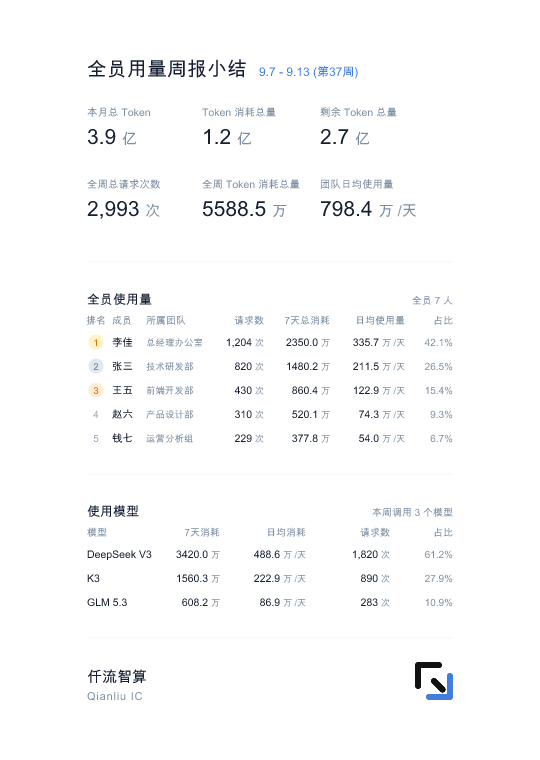
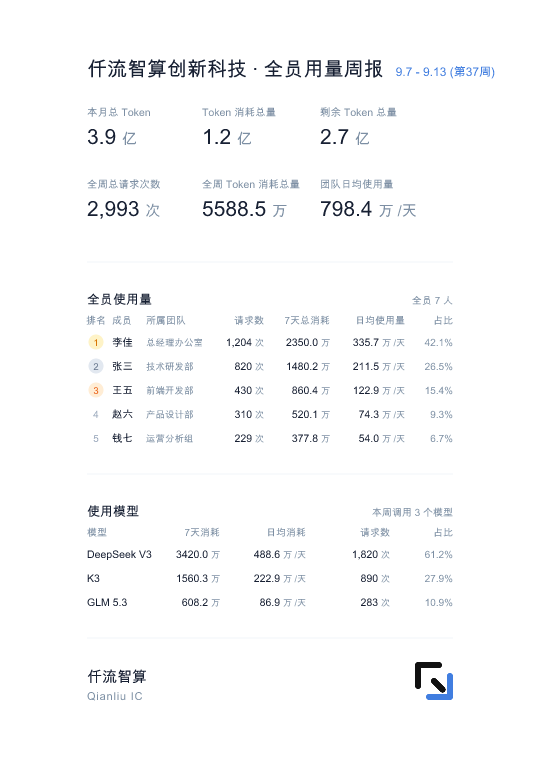
fix(reporting): prefix company weekly report title with enterprise short name
- Title changed from '全员用量周报小结' to '{enterpriseName} · 全员用量周报' to match daily report style
- Update spec doc title section and refresh v2.1 preview image

Changed region(s): [[0.1481, 0.0605, 0.4444, 0.1211], [0.4741, 0.0605, 0.7111, 0.1211], [0.8, 0.0908, 0.9185, 0.1211]]

diff --git a/apps/worker/src/reporting/templates/company-weekly-svg.ts b/apps/worker/src/reporting/templates/company-weekly-svg.ts
@@ -189,7 +189,7 @@ export function generateCompanyWeeklySvg(data: CompanyWeeklyReportData): string 
 
   <g font-family="-apple-system, BlinkMacSystemFont, 'PingFang SC', 'Hiragino Sans GB', 'Microsoft YaHei', 'WenQuanYi Zen Hei', 'Noto Sans CJK SC', sans-serif">
     <!-- Block 1: 顶栏小结 (标题 + 6大数字 2×3) -->
-    <text x="87" y="${headerY}" font-size="20" font-weight="700" fill="#172033">全员用量周报小结<tspan dx="12" font-size="12" font-weight="600" fill="#417EE0">${escapeXml(data.dateRange)}</tspan></text>
+    <text x="87" y="${headerY}" font-size="20" font-weight="700" fill="#172033">${escapeXml(data.enterpriseName)} · 全员用量周报<tspan dx="12" font-size="12" font-weight="600" fill="#417EE0">${escapeXml(data.dateRange)}</tspan></text>
 
     <!-- 第 1 行：月度额度视角（本月总 Token / Token 消耗总量 / 剩余 Token 总量） -->
     <g transform="translate(87, ${kpiTopY})">

diff --git a/apps/worker/src/reporting/__tests__/svg-templates.test.ts b/apps/worker/src/reporting/__tests__/svg-templates.test.ts
@@ -124,7 +124,7 @@ describe("SVG Templates & PNG Rendering Pipeline", () => {
 
     const svg = generateCompanyWeeklySvg(data);
 
-    expect(svg).toContain("全员用量周报小结");
+    expect(svg).toContain("仟流智算创新科技 · 全员用量周报");
     expect(svg).toContain("9.7 - 9.13");
     expect(svg).toContain("本月总 Token");
     expect(svg).toContain("Token 消耗总量");

diff --git a/文档/仟流智算-团队全员用量周报视觉与格式规范-v1.0.md b/文档/仟流智算-团队全员用量周报视觉与格式规范-v1.0.md
@@ -52,7 +52,7 @@
 
 | 层次模块 | 字段内容 | 字号与字重 | 颜色 Hex | 说明 |
 | :--- | :--- | :--- | :--- | :--- |
-| **第 1 部分：标题区** | 主标题「全员用量周报小结」 | `24 px bold` | `#172033` | 顶层固定骨架 |
+| **第 1 部分：标题区** | 主标题「公司简称 · 全员用量周报」（如「河南仟流科技 · 全员用量周报」） | `20 px bold` | `#172033` | 顶层固定骨架，与日报「公司名 · Token日报」同款制式 |
 | | 统计周期标注「9.7 - 9.13」 | `13 px semibold` | `#417EE0` | 仟流蓝 |
 | **第 2 部分：6个大数（2×3）** | 第 1 行：本月总 Token / Token 消耗总量 / 剩余 Token 总量（月度额度视角） | **`21 px bold` (数值) / `15 px` (单位)** | **`#172033` / `#7D8FA4`** | 三列锚定 X = 87 / 202 / 320 |
 | | 第 2 行：全周总请求次数 / 全周 Token 消耗总量 / 团队日均使用量（本周用量视角） | **`21 px bold` (数值) / `15 px` (单位)** | **`#172033` / `#7D8FA4`** | 行距 72px，与第 1 行等大并列 |
